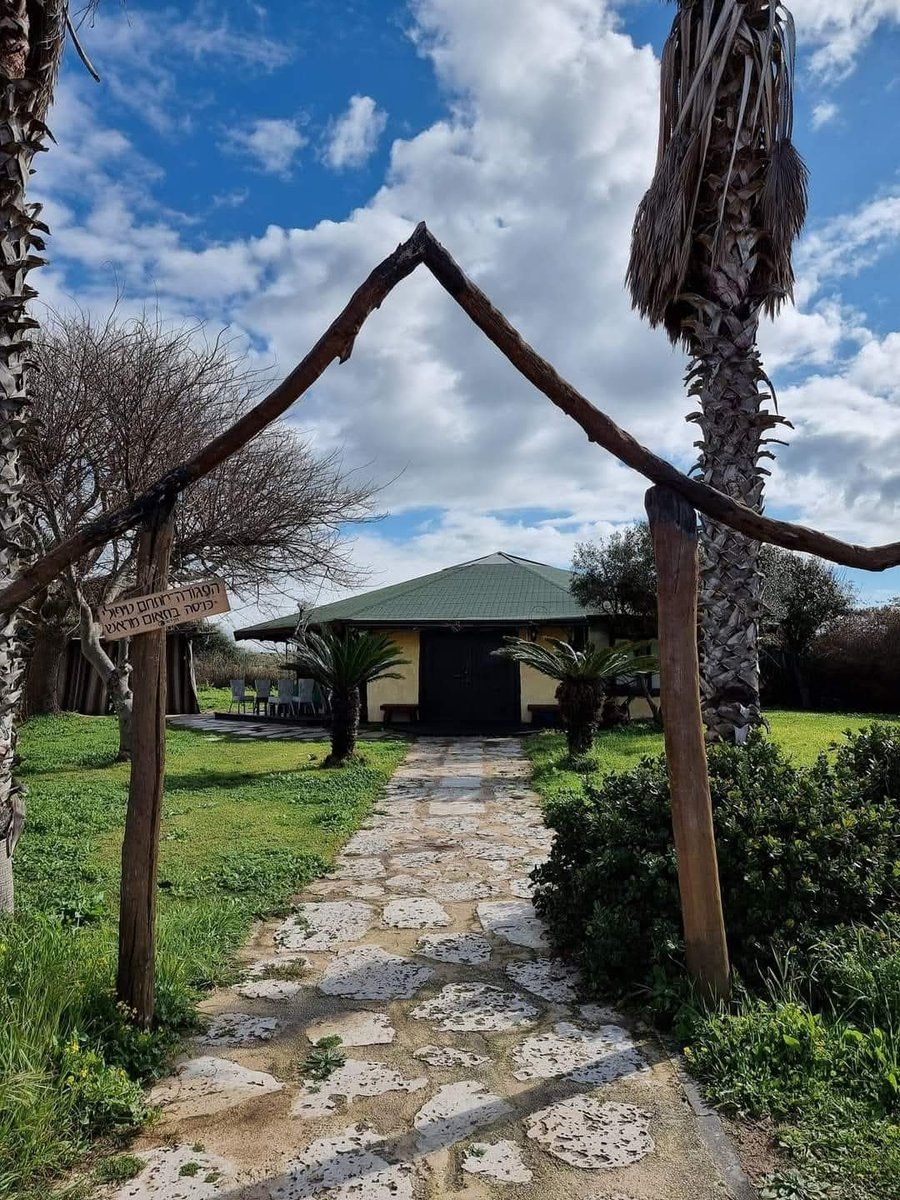
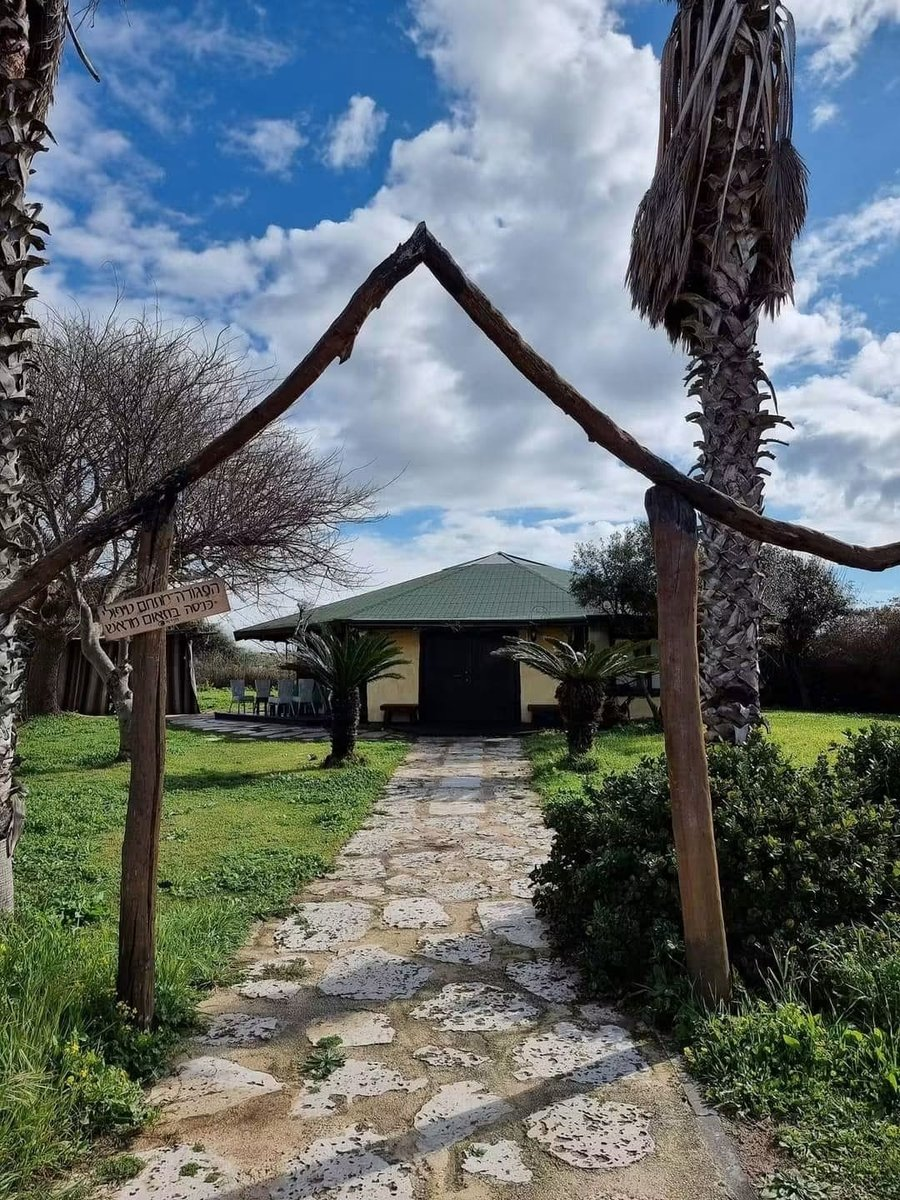
הערות תומר: כפתורים, ניווט ותמונות חדשות
- שני הכפתורים בראש דף הבית באותו צבע — לא נראה שאחד כבר נלחץ
- פירורי לחם בכל עמוד מוצר: דף הבית › קטגוריה › מוצר
- 11 תמונות חדשות מתומר שובצו; הישנות והחלשות הוסרו

diff --git a/kung-fu.html b/kung-fu.html
@@ -47,7 +47,9 @@
 
     <section class="page-hero">
       <div class="container">
-        <a class="back-link" href="individuals.html">לאנשים פרטיים</a>
+        <nav class="crumbs" aria-label="מיקום באתר">
+          <a href="index.html">דף הבית</a><span aria-hidden="true">›</span><a href="individuals.html">לאנשים פרטיים</a><span aria-hidden="true">›</span><span aria-current="page">לימודי קונג פו בפגודה</span>
+        </nav>
         <h1>לימודי קונג פו בפגודה</h1>
         <p class="tagline">קונג פו הונג גאר, צ'י־קונג ומדיטציה</p>
         <div class="hero-cta"><a class="btn btn-primary" href="contact.html">צור קשר</a></div>
@@ -62,7 +64,7 @@
         </div>
 
         <figure class="page-figure reveal">
-          <img src="assets/img/kungfu-outdoor.jpg" alt="קבוצת תרגול קונג פו בחוץ, בהובלת תומר בן דוד" loading="lazy">
+          <img src="assets/img/kungfu-adults-night.jpg" alt="קבוצת המבוגרים מתרגלת בפגודה" loading="lazy">
         </figure>
 
         <div class="group-list">
@@ -90,11 +92,11 @@
 
         <div class="figure-row reveal">
           <figure>
-            <img src="assets/img/kungfu-kids.jpg" alt="קבוצת הילדים מתרגלת בפגודה" loading="lazy">
+            <img src="assets/img/kungfu-kids-class.jpg" alt="קבוצת הילדים מתרגלת בפגודה" loading="lazy">
             <figcaption>קבוצת הילדים</figcaption>
           </figure>
           <figure>
-            <img src="assets/img/kungfu-group.jpg" alt="קבוצת המבוגרים מתרגלת בפגודה" loading="lazy">
+            <img src="assets/img/kungfu-kids-beach.jpg" alt="אימון קבוצת הילדים על חוף שדות ים" loading="lazy">
             <figcaption>קבוצת המבוגרים</figcaption>
           </figure>
         </div>

diff --git a/retreats.html b/retreats.html
@@ -47,7 +47,9 @@
 
     <section class="page-hero">
       <div class="container">
-        <a class="back-link" href="individuals.html">לאנשים פרטיים</a>
+        <nav class="crumbs" aria-label="מיקום באתר">
+          <a href="index.html">דף הבית</a><span aria-hidden="true">›</span><a href="individuals.html">לאנשים פרטיים</a><span aria-hidden="true">›</span><span aria-current="page">ריטריטים</span>
+        </nav>
         <h1>ריטריטים</h1>
         <p class="tagline">תנועה, תרגול, טבע ומנוחה</p>
         <div class="hero-cta"><a class="btn btn-primary" href="contact.html">צור קשר</a></div>
@@ -66,11 +68,11 @@
 
         <div class="figure-row reveal">
           <figure><img src="assets/img/qigong-sunset.jpg" alt="תרגול צ'י־קונג קבוצתי בזריחה במדבר" loading="lazy"></figure>
-          <figure><img src="assets/img/sdot-yam-beach.jpg" alt="חוף הים בשדות ים" loading="lazy"></figure>
+          <figure><img src="assets/img/retreat-canyon.jpg" alt="קבוצה במסע בנחל מדברי" loading="lazy"></figure>
         </div>
 
         <figure class="page-figure page-figure-portrait reveal">
-          <img src="assets/img/retreat-tomer.jpg" alt="תומר בן דוד מוביל מסע במדבר" loading="lazy">
+          <img src="assets/img/tomer-trek.jpg" alt="תומר בן דוד במסע הרים" loading="lazy">
         </figure>
 
         <div class="info-box reveal">

diff --git a/personal-training.html b/personal-training.html
@@ -47,7 +47,9 @@
 
     <section class="page-hero">
       <div class="container">
-        <a class="back-link" href="individuals.html">לאנשים פרטיים</a>
+        <nav class="crumbs" aria-label="מיקום באתר">
+          <a href="index.html">דף הבית</a><span aria-hidden="true">›</span><a href="individuals.html">לאנשים פרטיים</a><span aria-hidden="true">›</span><span aria-current="page">אימון אישי</span>
+        </nav>
         <h1>אימון אישי</h1>
         <p class="tagline">עבודה אישית ומעמיקה</p>
         <div class="hero-cta"><a class="btn btn-primary" href="contact.html">צור קשר</a></div>
@@ -63,7 +65,7 @@
         </div>
 
         <figure class="page-figure reveal">
-          <img src="assets/img/tomer-qigong.jpg" alt="תומר בן דוד מתרגל צ'י־קונג עם קבוצה" loading="lazy">
+          <img src="assets/img/personal-training.jpg" alt="אולם התרגול בפגודה, ערוך לאימון אישי" loading="lazy">
         </figure>
       </div>
     </section>

diff --git a/css/style.css b/css/style.css
@@ -155,8 +155,12 @@ h1 { letter-spacing: -0.01em; }
 .page-hero h1 { font-size: clamp(27px, 4.2vw, 38px); }
 .page-hero .tagline { font-size: clamp(16px, 2.4vw, 18px); color: var(--accent); margin: 10px 0 0; }
 .page-hero .intro { font-size: 16.5px; color: var(--ink-soft); max-width: 700px; margin: 18px 0 0; }
-.back-link { display: inline-block; font-size: 15px; color: var(--accent); margin-bottom: 14px; }
-.back-link::before { content: "\2192\00a0"; unicode-bidi: isolate; }
+/* פירורי לחם — מסלול ברור חזרה לרשימת התחומים */
+.crumbs { font-size: 15px; color: var(--ink-faint); margin-bottom: 16px; display: flex; flex-wrap: wrap; align-items: center; gap: 8px; }
+.crumbs a { color: var(--accent); }
+.crumbs a:hover { color: var(--brown); text-decoration: underline; text-underline-offset: 3px; }
+.crumbs span[aria-hidden] { color: var(--ink-faint); opacity: 0.6; }
+.crumbs span[aria-current] { color: var(--ink-soft); }
 
 /* ---------- מקטעים ---------- */
 .section { padding: 68px 0; }

diff --git a/kungfu-business.html b/kungfu-business.html
@@ -47,7 +47,9 @@
 
     <section class="page-hero">
       <div class="container">
-        <a class="back-link" href="organizations.html">לארגונים וצוותים</a>
+        <nav class="crumbs" aria-label="מיקום באתר">
+          <a href="index.html">דף הבית</a><span aria-hidden="true">›</span><a href="organizations.html">לארגונים וצוותים</a><span aria-hidden="true">›</span><span aria-current="page">כשעסקים וקונג פו נפגשים</span>
+        </nav>
         <h1>כשעסקים וקונג פו נפגשים</h1>
         <p class="tagline">עקרונות הקונג פו בעולם העבודה</p>
         <div class="hero-cta"><a class="btn btn-primary" href="contact.html">צור קשר</a></div>

diff --git a/custom-workshops.html b/custom-workshops.html
@@ -47,7 +47,9 @@
 
     <section class="page-hero">
       <div class="container">
-        <a class="back-link" href="organizations.html">לארגונים וצוותים</a>
+        <nav class="crumbs" aria-label="מיקום באתר">
+          <a href="index.html">דף הבית</a><span aria-hidden="true">›</span><a href="organizations.html">לארגונים וצוותים</a><span aria-hidden="true">›</span><span aria-current="page">סדנאות בהתאמה אישית</span>
+        </nav>
         <h1>סדנאות בהתאמה אישית</h1>
         <p class="tagline">סדנה או תהליך הנבנים יחד עם הארגון</p>
         <div class="hero-cta"><a class="btn btn-primary" href="contact.html">צור קשר</a></div>

diff --git a/executive-coaching.html b/executive-coaching.html
@@ -47,7 +47,9 @@
 
     <section class="page-hero">
       <div class="container">
-        <a class="back-link" href="organizations.html">לארגונים וצוותים</a>
+        <nav class="crumbs" aria-label="מיקום באתר">
+          <a href="index.html">דף הבית</a><span aria-hidden="true">›</span><a href="organizations.html">לארגונים וצוותים</a><span aria-hidden="true">›</span><span aria-current="page">ליווי אישי למנהלים</span>
+        </nav>
         <h1>ליווי אישי למנהלים</h1>
         <p class="tagline">בהירות, יציבות ונוכחות</p>
         <div class="hero-cta"><a class="btn btn-primary" href="contact.html">צור קשר</a></div>

diff --git a/teacher-training.html b/teacher-training.html
@@ -47,7 +47,9 @@
 
     <section class="page-hero">
       <div class="container">
-        <a class="back-link" href="individuals.html">לאנשים פרטיים</a>
+        <nav class="crumbs" aria-label="מיקום באתר">
+          <a href="index.html">דף הבית</a><span aria-hidden="true">›</span><a href="individuals.html">לאנשים פרטיים</a><span aria-hidden="true">›</span><span aria-current="page">הכשרת מורים ומנחים</span>
+        </nav>
         <h1>הכשרת מורים ומנחים</h1>
         <p class="tagline">מסלול העמקה ביכולות ההנחיה</p>
         <div class="hero-cta"><a class="btn btn-primary" href="contact.html">צור קשר</a></div>

diff --git a/yin-yang.html b/yin-yang.html
@@ -47,7 +47,9 @@
 
     <section class="page-hero">
       <div class="container">
-        <a class="back-link" href="organizations.html">לארגונים וצוותים</a>
+        <nav class="crumbs" aria-label="מיקום באתר">
+          <a href="index.html">דף הבית</a><span aria-hidden="true">›</span><a href="organizations.html">לארגונים וצוותים</a><span aria-hidden="true">›</span><span aria-current="page">סדנת יין־יאנג</span>
+        </nav>
         <h1>סדנת יין־יאנג</h1>
         <p class="tagline">איזון בין כוחות משלימים</p>
         <div class="hero-cta"><a class="btn btn-primary" href="contact.html">צור קשר</a></div>

diff --git a/index.html b/index.html
@@ -51,7 +51,7 @@
           <h1>מלווה אנשים וארגונים דרך קונג פו, צ'י קונג ומדיטציה</h1>
           <p class="lead">עבור אנשים הבוחרים להשקיע בעצמם, מתוך כוונה, התמדה ותרגול כדרך חיים.</p>
           <div class="hero-actions">
-            <a class="btn btn-light" href="individuals.html">לאנשים פרטיים</a>
+            <a class="btn btn-primary" href="individuals.html">לאנשים פרטיים</a>
             <a class="btn btn-primary" href="organizations.html">לארגונים וצוותים</a>
           </div>
         </div>

diff --git a/about.html b/about.html
@@ -71,6 +71,11 @@
           <img src="assets/img/tomer-meditation.jpg" alt="תומר בן דוד יושב במדיטציה מול נוף מדברי" loading="lazy">
         </figure>
 
+        <div class="figure-row reveal">
+          <figure><img src="assets/img/tomer-family.jpg" alt="תומר בן דוד עם בניו" loading="lazy"></figure>
+          <figure><img src="assets/img/kungfu-seminar.jpg" alt="סמינר הונג גאר בפגודה" loading="lazy"></figure>
+        </div>
+
         <div class="info-box reveal">
           <h3>קישורים</h3>
           <ul>

diff --git a/individuals.html b/individuals.html
@@ -76,6 +76,10 @@
             <span class="product-link">לפרטים</span>
           </a>
         </div>
+
+        <figure class="page-figure page-figure-portrait reveal" style="margin-top:44px">
+          <img src="assets/img/pagoda-sparring.jpg" alt="תרגול בזוגות באולם הפגודה" loading="lazy">
+        </figure>
       </div>
     </section>
 
